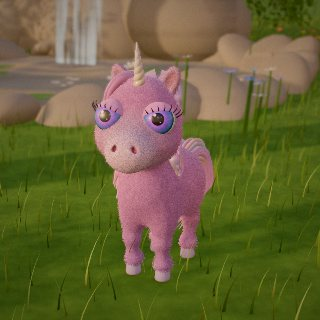
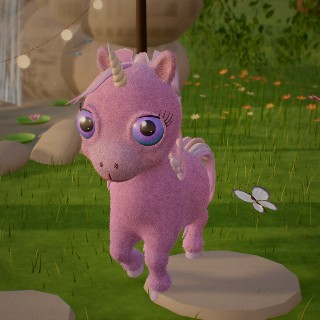
feat(magic-brush): friendlier unicorn face (short soft muzzle, big glossy eyes, silky forelock)

diff --git a/games/magic-brush/src/creatures/unicorn.js b/games/magic-brush/src/creatures/unicorn.js
@@ -20,7 +20,7 @@ import { glide, puff } from '../sound/calls.js';
 import { rand } from '../config.js';
 
 const COAT = 0xf6f0fd;
-const MUZZLE = 0xf6dde8;
+const MUZZLE = 0xfae6ee;
 const INNER_EAR = 0xf2a9c6;
 const BLUSH = 0xf59ac0;
 const HOOF = 0xd9c7ee;
@@ -43,10 +43,12 @@ const H = (x, y, z) => [HP[0] + x * HS, HP[1] + y * HS, HP[2] + z * HS];
 const hr = (r) => r * HS;
 const HORN_BASE = H(0, 0.068, 0.028);
 const HORN_TIP = H(0, 0.128, 0.064);
-const EYE = H(0.037, 0.024, 0.037);
+const EYE = H(0.034, 0.024, 0.04);
 const EYE_DIR = [0.46, 0.06, 0.885];
-const EYE_R = hr(0.0222);
-const EYE_PARTS = [['eyeL', 'lidL'], ['eyeR', 'lidR']];
+const EYE_R = hr(0.0218);
+const EYE_PARTS = [['eyeL', 'lidL', 'shutL'], ['eyeR', 'lidR', 'shutR']];
+const SHUT = ['shutL', 'shutR'];
+const LID_K = 0.965; // how much closer to the eye than usual the lid lies
 const rel = (p) => [p[0] - HP[0], p[1] - HP[1], p[2] - HP[2]]; // offset from the head bone
 
 // a spiral horn: a cone along base -> tip with a twisted two-start groove
@@ -84,6 +86,15 @@ function spiralHorn(base, tip, r0, { turns = 3.4, radial = 30, steps = 64, depth
   g.setIndex(idx);
   g.computeVertexNormals();
   return g;
+}
+
+// Parts that only show now and then (the closed-eye lines) are modelled
+// shrunk to a speck round their bone and scaled up by 1 / TINY when shown,
+// so the rest pose (which lies flat on the canvas before she comes alive)
+// has none of them.
+const TINY = 0.01;
+function tiny(g, c) {
+  return g.translate(-c[0], -c[1], -c[2]).scale(TINY, TINY, TINY).translate(c[0], c[1], c[2]);
 }
 
 // a torus round the axis n, its centre `depth` out from c along n (a soft rim of fur round an eye)
@@ -165,6 +176,8 @@ export class Unicorn extends Friend {
     s.bone('head', 'neck', HP);
     s.bone('jaw', 'head', H(0, -0.02, 0.038));
     this.eyeBones(s, EYE);
+    // the line a shut eye makes, shown only while the lids are down
+    s.bones2('shut', 'head', EYE);
     s.bones2('ear', 'head', H(0.03, 0.058, -0.014));
     s.bone('maneH', 'head', H(0, 0.07, -0.024));
     s.bone('maneN', 'neck', [0, 0.28, 0.036]);
@@ -197,12 +210,12 @@ export class Unicorn extends Friend {
     s.cone([0, 0.262, 0.036], [0, 0.212, 0.006], 0.011, 0.0095, { bone: 'chest', k: 0.012, ...crestLook });
     s.ellipsoid(H(0, 0.066, 0.004), [hr(0.017), hr(0.011), hr(0.016)], { bone: 'head', k: 0.014, ...crestLook, fur: 2.6 });
     // head: a big round cranium, soft cheeks and a short, rounded velvet muzzle
-    s.ellipsoid(H(0, 0.027, 0.004), [hr(0.058), hr(0.055), hr(0.055)], { bone: 'head', k: 0.03 });
+    s.ellipsoid(H(0, 0.027, 0.004), [hr(0.06), hr(0.055), hr(0.055)], { bone: 'head', k: 0.03 });
     s.sphere(H(0.027, -0.003, 0.022), hr(0.022), { bone: 'head', k: 0.03, sym: true });
     s.ellipsoid(H(0, -0.013, 0.048), [hr(0.028), hr(0.022), hr(0.025)], { bone: 'head', k: 0.035, rot: [0.2, 0, 0], ...muzzle, paint: 0.6, fur: 0.7 });
     s.ellipsoid(H(0, -0.016, 0.06), [hr(0.02), hr(0.016), hr(0.015)], { bone: 'head', k: 0.02, ...muzzle, paint: 0.6, fur: 0.7 });
     // a rosy blush under each eye
-    s.sphere(H(0.042, -0.008, 0.034), hr(0.012), { bone: 'head', k: 0.012, sym: true, tint: BLUSH, paint: 0.45, fur: 0.6 });
+    s.sphere(H(0.04, -0.009, 0.038), hr(0.012), { bone: 'head', k: 0.012, sym: true, tint: BLUSH, paint: 0.45, fur: 0.6 });
     // chin, on the jaw
     s.ellipsoid(H(0, -0.028, 0.048), [hr(0.014), hr(0.009), hr(0.017)], { bone: 'jaw', k: 0.014, ...muzzle, paint: 0.6, fur: 0.7 });
     // eye sockets: smooth, short fur inside a soft rim that holds each eye
@@ -243,7 +256,14 @@ export class Unicorn extends Friend {
     });
     // soft velvet lids: no gloss, just a little sheen
     const lidMat = hideMaterial(this.shared, { furry: true, sheen: 0.35, clearcoat: 0 });
-    for (const m of this.meshes) if (m !== this.body && m.material === this.hide) m.material = lidMat;
+    // (and hugging the eye a little closer than the default, so a shut eye is a neat soft lid)
+    let side0 = 1;
+    for (const m of this.meshes)
+      if (m !== this.body && m.material === this.hide) {
+        m.material = lidMat;
+        m.geometry.translate(-EYE[0] * side0, -EYE[1], -EYE[2]).scale(LID_K, LID_K, LID_K).translate(EYE[0] * side0, EYE[1], EYE[2]);
+        side0 = -side0;
+      }
 
     // a fine dark line along each upper lid's rim and a fan of long lashes
     // curling up and out at the outer corner (they ride on the lid)
@@ -252,7 +272,7 @@ export class Unicorn extends Friend {
       const cc = [EYE[0] * side, EYE[1], EYE[2]];
       const fr = frameFrom([EYE_DIR[0] * side, EYE_DIR[1], EYE_DIR[2]]);
       const toRest = ([x, y, z]) => [cc[0] + fr.x.x * x + fr.y.x * y + fr.z.x * z, cc[1] + fr.x.y * x + fr.y.y * y + fr.z.y * z, cc[2] + fr.x.z * x + fr.y.z * y + fr.z.z * z];
-      const R = EYE_R * 1.07 * 1.012;
+      const R = EYE_R * 1.07 * LID_K * 1.012;
       const tilt = -0.35; // as the lid is tipped back (see lidGeometry)
       const outer = side > 0 ? 0 : Math.PI;
       const dir = side > 0 ? 1 : -1;
@@ -271,6 +291,30 @@ export class Unicorn extends Friend {
       }
     }
     this.addMesh(mergeGeometries(lashes.map((g) => withLook(g, { tint: LASH, rough: 0.4 }))), this.mat('solid', { clearcoat: 0.3 }), { shadow: false }).userData.noProject = true;
+
+    // the line a shut eye makes: a soft curve with a few short lashes, drawn on the shut lid
+    const shutLines = [];
+    for (const side of [1, -1]) {
+      const cc = [EYE[0] * side, EYE[1], EYE[2]];
+      const fr = frameFrom([EYE_DIR[0] * side, EYE_DIR[1], EYE_DIR[2]]);
+      const toRest = ([x, y, z]) => [cc[0] + fr.x.x * x + fr.y.x * y + fr.z.x * z, cc[1] + fr.x.y * x + fr.y.y * y + fr.z.y * z, cc[2] + fr.x.z * x + fr.y.z * y + fr.z.z * z];
+      const Rs = EYE_R * 1.07 * LID_K * 1.03;
+      const onLid = (u, dy = 0, out = 0) => {
+        const x = -u * 0.8 * Rs * side;
+        const y = (-0.1 - 0.22 * (1 - u * u) + dy) * Rs;
+        const r = Rs + out;
+        return toRest([x, y, Math.sqrt(Math.max(0, r * r - x * x - y * y))]);
+      };
+      const cp = [];
+      for (let i = 0; i <= 16; i++) cp.push(onLid(-1 + (2 * i) / 16));
+      const B = I['shut' + (side > 0 ? 'L' : 'R')];
+      shutLines.push(bindTo(tiny(tubeGeometry(cp, [0.0006, 0.0012, 0.0014, 0.0012, 0.0009, 0.0005], { radial: 6, steps: 32 }), cc), B));
+      for (const [u, len] of [[-0.95, 0.009], [-0.8, 0.0085], [-0.64, 0.0065]]) {
+        const lp = [0, 0.5, 1].map((k) => onLid(u - k * 0.22, -k * len * 9, k * len * 0.5));
+        shutLines.push(bindTo(tiny(tubeGeometry(lp, [0.0006, 0.0004, 0.0002], { radial: 5, steps: 6 }), cc), B));
+      }
+    }
+    this.addMesh(mergeGeometries(shutLines.map((g) => withLook(g, { tint: LASH, rough: 0.4 }))), this.mat('solid', { clearcoat: 0.3 }), { shadow: false }).userData.noProject = true;
 
     // the smile: a small curve under the nose, on the muzzle
     const on = (p) => onSurface(geo, H(...p), 0.0009).p;
@@ -367,18 +411,24 @@ export class Unicorn extends Friend {
     // shorter, fluffy layer to the left
     for (let i = 0; i < nL; i++) addLock(i / (nL - 1), -1, 1, i % 2);
     for (let i = 0; i < 14; i++) addLock(i / 13, 1, 0.55, 0);
-    // forelock: two locks swept from the topknot over her right brow
-    for (let j = 0; j < 2; j++) {
-      const o = j * 0.006;
-      const pts = [
-        H(-0.002, 0.066, -0.004 + o),
-        H(-0.014 - o, 0.084, 0.008 + o),
-        H(-0.03 - o, 0.078, 0.022),
-        H(-0.043 - o, 0.06, 0.026 - o),
-        H(-0.05 - o, 0.042 - o, 0.02 - o),
+    // forelock: a few slim, silky locks swept from the topknot down over her
+    // right brow, lying on the head and curling away at their tips
+    for (let j = 0; j < 5; j++) {
+      const o = j * 0.0055;
+      const guess = [
+        [-0.001 - o * 0.3, 0.085, 0.004 + o * 0.4],
+        [-0.008 - o, 0.082, 0.017 + o * 0.4],
+        [-0.02 - o * 1.3, 0.076, 0.031 + o * 0.3],
+        [-0.032 - o * 1.3, 0.067, 0.042],
+        [-0.038 - o * 1.1, 0.058 - o * 0.5, 0.046 + o * 0.4],
       ];
-      const g = hairClump(pts, 0.013, 0.0065, { side: [-0.3, 1, 0.4], seed: rnd(), steps: 16, swell: 0.3 });
-      withLook(g, lockLook(j));
+      const lift = [0.004, 0.0065, 0.007, 0.008, 0.013];
+      const pts = guess.map((q, i) => onSurface(geo, H(...q), lift[i]).p);
+      const mid = new THREE.Vector3(...pts[2]).sub(new THREE.Vector3(...H(0, 0.027, 0.004))).normalize();
+      const dirV = new THREE.Vector3(...pts[4]).sub(new THREE.Vector3(...pts[0]));
+      const sideV = new THREE.Vector3().crossVectors(dirV, mid).normalize();
+      const g = hairClump(pts, 0.0085, 0.0038, { side: sideV.toArray(), seed: rnd(), steps: 16, swell: 0.3, tip: 0.9 });
+      withLook(g, lockLook(j + 1));
       const sp = g.attributes.aSpan;
       bindBy(g, (x, y, z, k2) => {
         const k = smooth((sp.getX(k2) - 0.2) / 0.8) * 0.6;
@@ -426,11 +476,12 @@ export class Unicorn extends Friend {
 
   // ------------------------------------------------------------ motion
 
-  // after the eyes and lids are posed: closed eyes sink in a little, so a
-  // blink is a neat soft lid and not a ball
+  // after the eyes and lids are posed: closed eyes sink in and show the line
+  // a shut eye makes, so a blink is a neat soft lid and not a ball
   poseEyes(dt, camera) {
     super.poseEyes(dt, camera);
-    const sink = smooth(this.shut) * EYE_R * 0.22;
+    const k = smooth((this.shut - 0.75) / 0.2);
+    const sink = smooth(this.shut) * EYE_R * 0.2;
     const d = (this._eyeDir ??= new THREE.Vector3(...EYE_DIR).normalize());
     for (let i = 0; i < 2; i++) {
       const sx = i === 0 ? 1 : -1;
@@ -440,6 +491,7 @@ export class Unicorn extends Friend {
         q.y -= d.y * sink;
         q.z -= d.z * sink;
       }
+      this.bones[SHUT[i]].scale.setScalar(Math.max(1e-4, k) / TINY);
     }
   }
 
